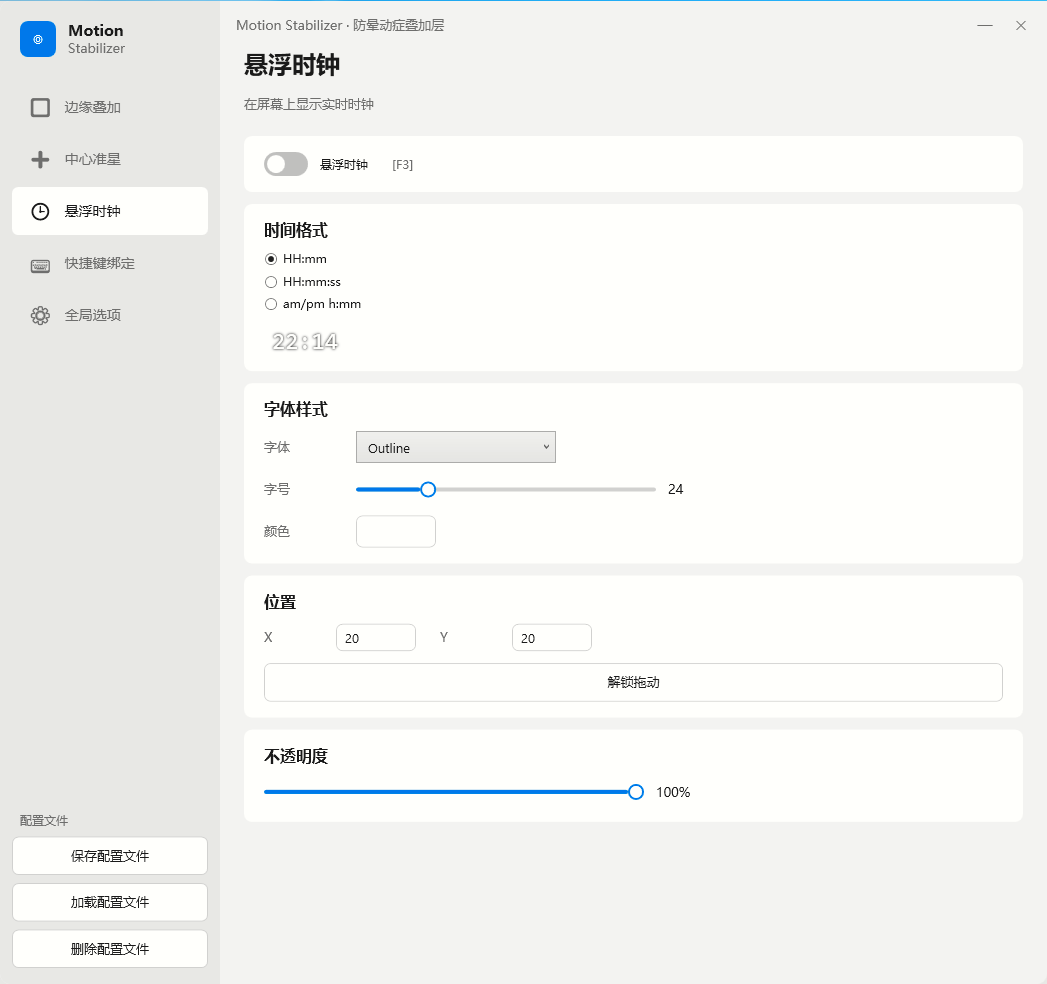
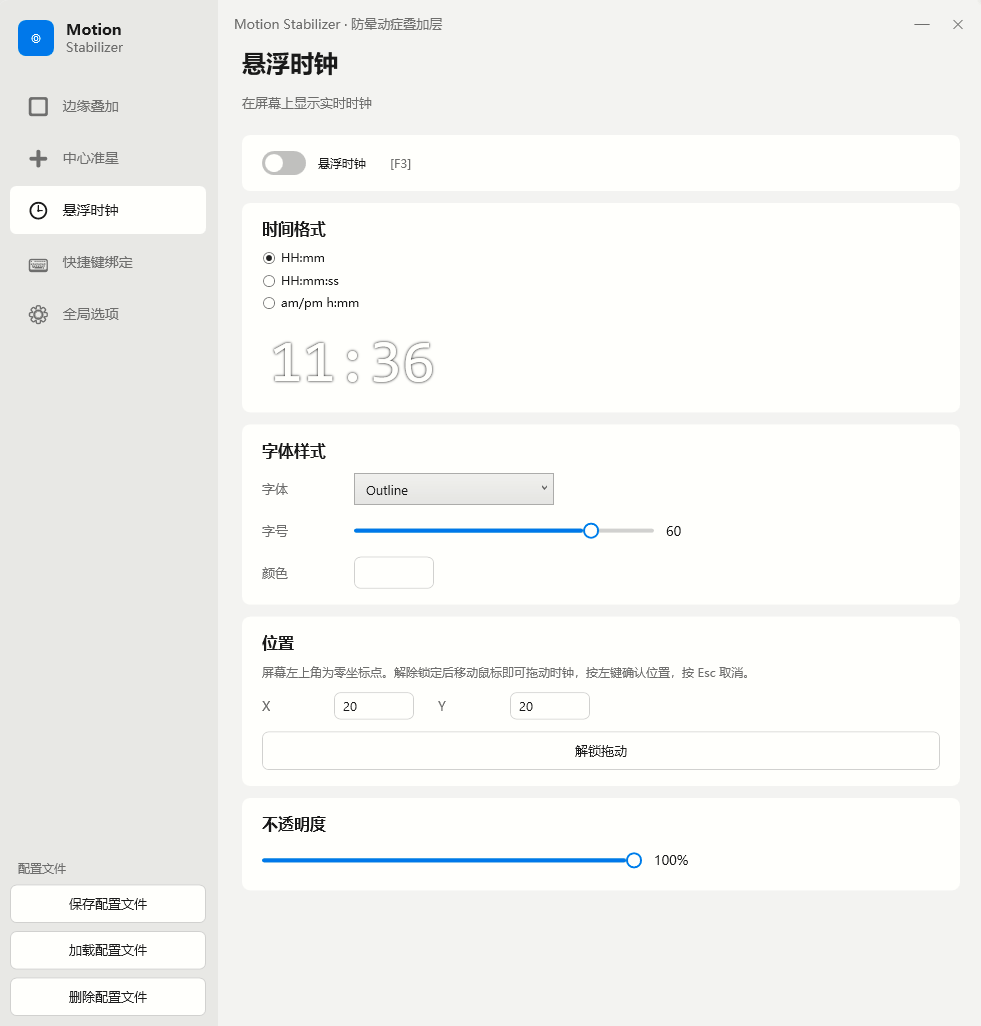
Update screenshots to v1.1.0 UI and fix crosshair image filename in README

diff --git a/README.md b/README.md
@@ -13,7 +13,7 @@
   </tr>
   <tr>
     <td><img src="docs/screenshots/边缘叠加界面.png" width="480" alt="边缘叠加界面" /></td>
-    <td><img src="docs/screenshots/中心准心界面.png" width="480" alt="中心准心界面" /></td>
+    <td><img src="docs/screenshots/中心准星界面.png" width="480" alt="中心准星界面" /></td>
   </tr>
   <tr>
     <td align="center"><b>悬浮时钟 / Floating Clock</b></td>